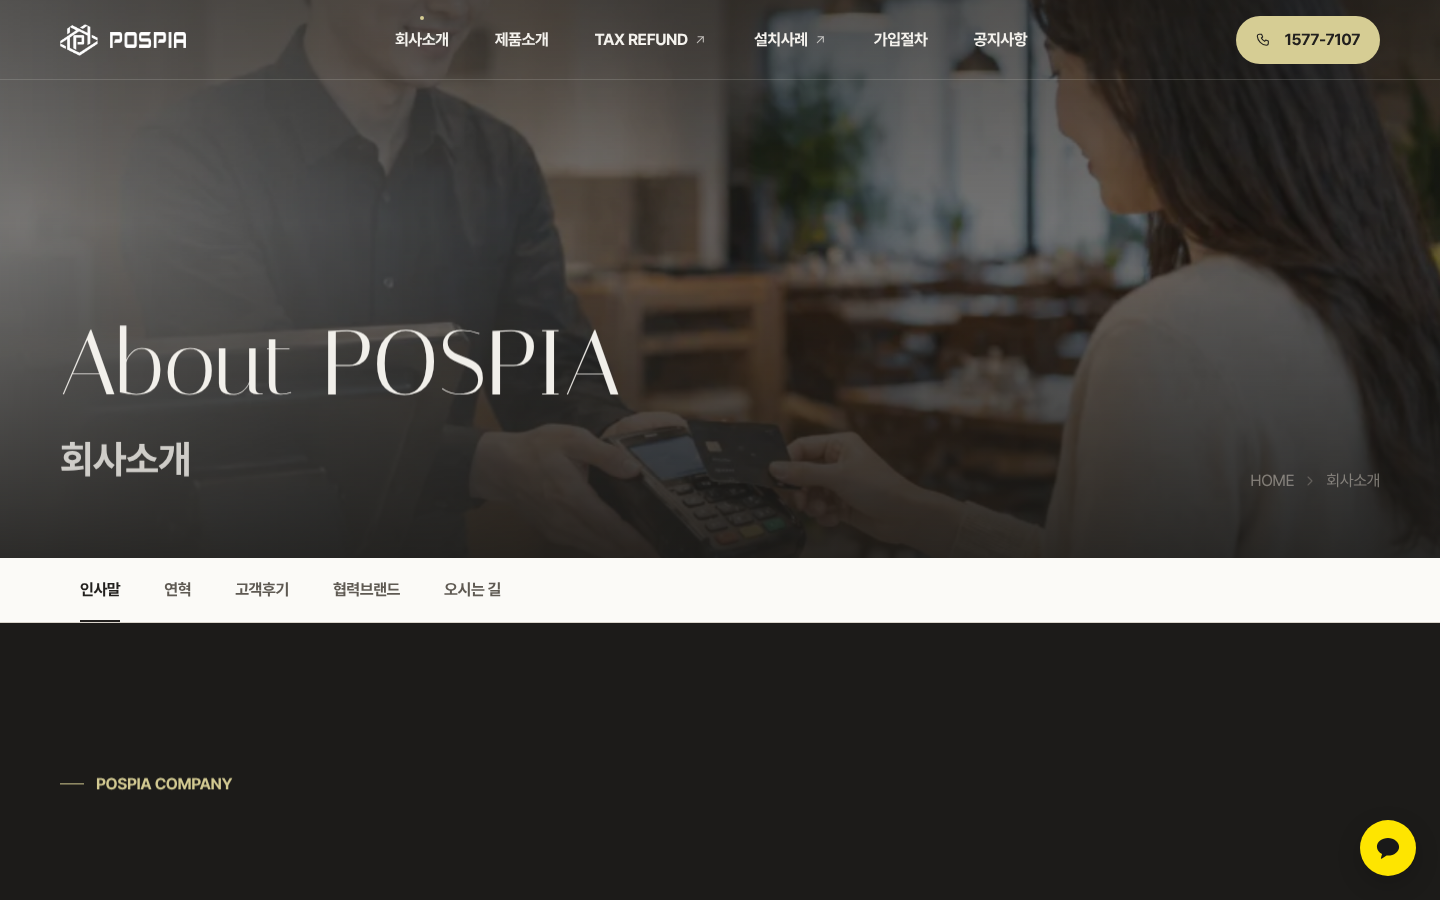
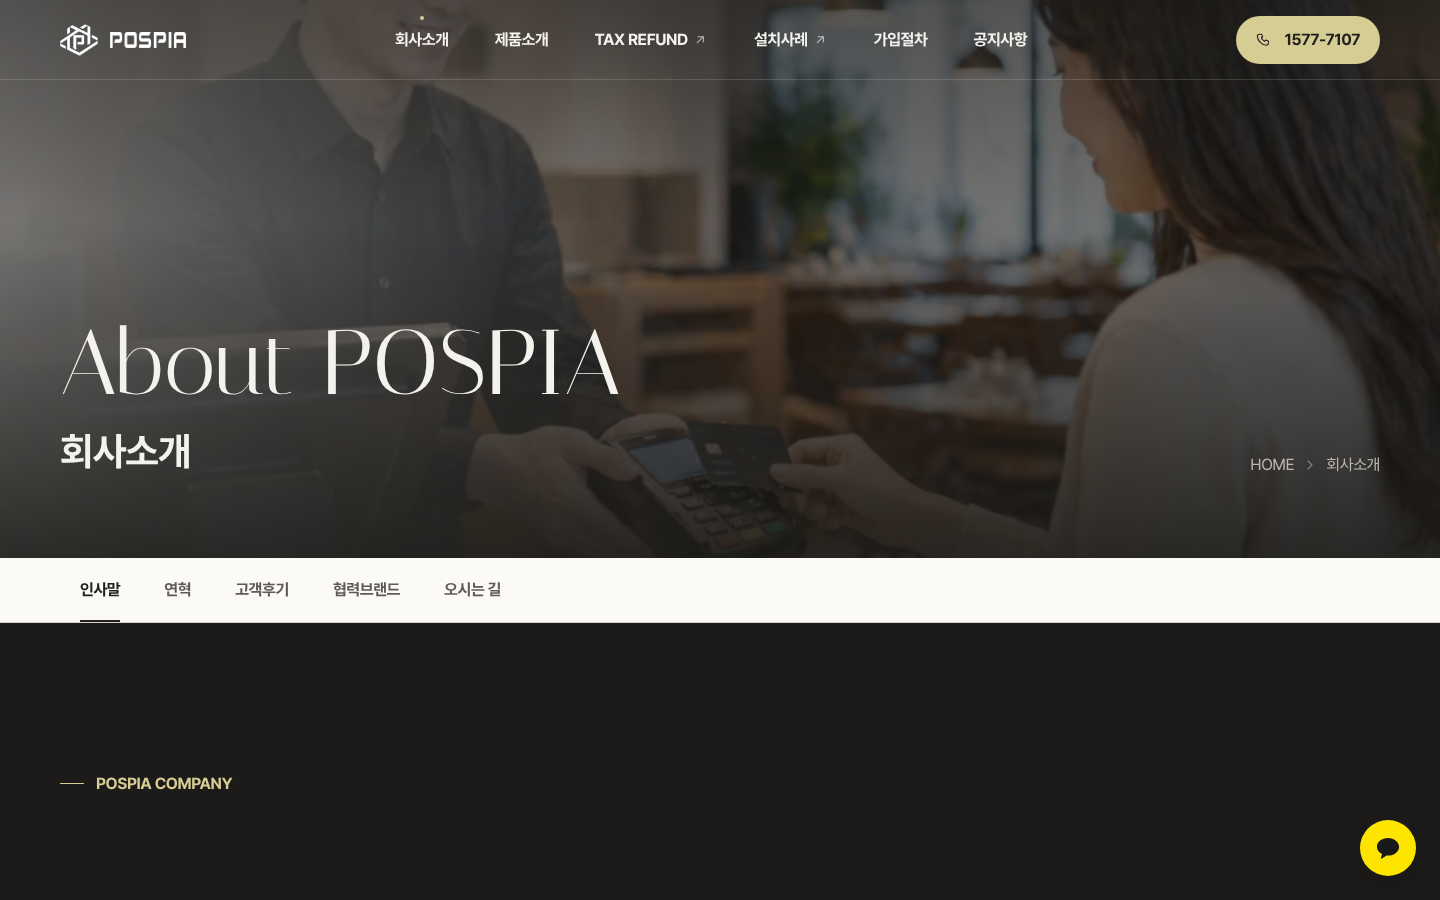
예전 주소는 새 홈페이지로 안내(404 페이지), 예전 서비스워커 정리 (검토용)
Claude-Session: https://claude.ai/code/session_01Rwa9kDDxqLJ6DUvS6WZCgx

diff --git a/404.html b/404.html
@@ -1,0 +1,32 @@
+<!doctype html>
+<html lang="ko">
+<head>
+<meta charset="utf-8">
+<meta name="viewport" content="width=device-width, initial-scale=1">
+<meta name="robots" content="noindex">
+<title>포스피아 POSPIA – 페이지를 옮겼어요</title>
+<!-- Old addresses (from the previous shop site on this domain) land here and go on to the new home page. -->
+<meta http-equiv="refresh" content="3; url=/">
+<style>
+  @font-face { font-family: "Pretendard"; font-weight: 700; font-display: swap; src: url(/assets/fonts/Pretendard-Bold.subset.woff2) format("woff2"); }
+  @font-face { font-family: "Pretendard"; font-weight: 400; font-display: swap; src: url(/assets/fonts/Pretendard-Regular.subset.woff2) format("woff2"); }
+  * { box-sizing: border-box; letter-spacing: -0.025em; }
+  html, body { height: 100%; margin: 0; }
+  body { display: grid; place-items: center; padding: 24px; background: #1c1b19; color: #f4f2ed; font: 400 16px/1.6 "Pretendard", "Apple SD Gothic Neo", "Malgun Gothic", system-ui, sans-serif; text-align: center; }
+  main { display: grid; justify-items: center; gap: 16px; }
+  img { width: 56px; height: auto; }
+  h1 { margin: 8px 0 0; font-size: clamp(22px, 1.2rem + 1vw, 32px); line-height: 1.4; }
+  p { margin: 0; color: #bdb7ae; }
+  a { display: inline-flex; align-items: center; height: 56px; margin-top: 16px; padding: 0 28px; border-radius: 999px; background: #d6cd94; color: #22201e; font-weight: 700; text-decoration: none; }
+</style>
+</head>
+<body>
+<main>
+  <img src="/assets/logo/pospia-mark-white.png" alt="" width="240" height="200">
+  <h1>포스피아 홈페이지가 새로워졌어요</h1>
+  <p>찾으시는 페이지가 옮겨졌어요. 잠시 후 새 홈페이지로 이동합니다.</p>
+  <a href="/">새 홈페이지로 가기</a>
+</main>
+<script>setTimeout(function () { location.replace('/'); }, 3000);</script>
+</body>
+</html>

diff --git a/service-worker.js b/service-worker.js
@@ -1,0 +1,10 @@
+// Clean-up: the shop site that used this domain before may have installed a "service worker" in visitors' browsers,
+// which can keep showing the old pages. If one was registered at this address, this replaces it, removes itself
+// and reloads open tabs so the new site appears. Harmless when nothing was installed.
+self.addEventListener('install', () => self.skipWaiting());
+self.addEventListener('activate', event => event.waitUntil((async () => {
+  try { const keys = await caches.keys(); await Promise.all(keys.map(k => caches.delete(k))); } catch (e) {}
+  await self.registration.unregister();
+  const tabs = await self.clients.matchAll({ type: 'window' });
+  tabs.forEach(tab => tab.navigate(tab.url));
+})()));

diff --git a/serviceworker.js b/serviceworker.js
@@ -1,0 +1,10 @@
+// Clean-up: the shop site that used this domain before may have installed a "service worker" in visitors' browsers,
+// which can keep showing the old pages. If one was registered at this address, this replaces it, removes itself
+// and reloads open tabs so the new site appears. Harmless when nothing was installed.
+self.addEventListener('install', () => self.skipWaiting());
+self.addEventListener('activate', event => event.waitUntil((async () => {
+  try { const keys = await caches.keys(); await Promise.all(keys.map(k => caches.delete(k))); } catch (e) {}
+  await self.registration.unregister();
+  const tabs = await self.clients.matchAll({ type: 'window' });
+  tabs.forEach(tab => tab.navigate(tab.url));
+})()));

diff --git a/sw.js b/sw.js
@@ -1,0 +1,10 @@
+// Clean-up: the shop site that used this domain before may have installed a "service worker" in visitors' browsers,
+// which can keep showing the old pages. If one was registered at this address, this replaces it, removes itself
+// and reloads open tabs so the new site appears. Harmless when nothing was installed.
+self.addEventListener('install', () => self.skipWaiting());
+self.addEventListener('activate', event => event.waitUntil((async () => {
+  try { const keys = await caches.keys(); await Promise.all(keys.map(k => caches.delete(k))); } catch (e) {}
+  await self.registration.unregister();
+  const tabs = await self.clients.matchAll({ type: 'window' });
+  tabs.forEach(tab => tab.navigate(tab.url));
+})()));
